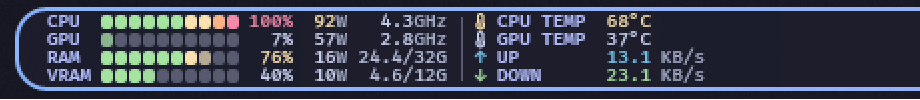
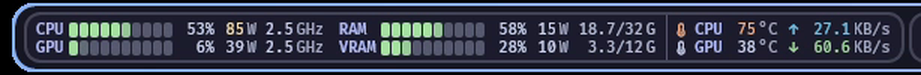
Taskbar System Info Plus 1.4.18: two readable stacked rows (#51)
The stacked layout drew four 7 px rows inside the 34 px dock, so labels,
icons and units were hard to read. It now uses two rows (CPU/GPU, RAM/VRAM,
temperatures, network) at the Stacked font size (default 10), semibold
labels with medium values, and a thin space before W, GHz and G.

diff --git a/mods/local/taskbar-system-info-weather/taskbar-system-info-weather.wh.cpp b/mods/local/taskbar-system-info-weather/taskbar-system-info-weather.wh.cpp
@@ -5,7 +5,7 @@
 // @name:uk-UA      Системний монітор панелі завдань
 // @description     CPU, GPU, RAM, VRAM, temperatures and network speed on the taskbar, with optional graphs
 // @description:uk-UA Компактний монітор CPU, GPU, RAM і VRAM із 60-секундними графіками для панелі завдань Windows 11.
-// @version         1.4.17
+// @version         1.4.18
 // @author          DavidHiFi, Yevhenii Starychenko, m417z, Salyts
 // @github          https://github.com/DavidHiFi
 // @homepage        https://github.com/DavidHiFi/davids-windhawk-mods/tree/main/mods/local/taskbar-system-info-weather
@@ -199,11 +199,11 @@ by Salyts. GPL-3.0.
 
 - stackedLayout: false
   $name: Stacked layout
-  $description: "Four compact rows: CPU, GPU, RAM and VRAM meters on the left; CPU and GPU temperature, download and upload on the right. Uses the stacked font size below."
+  $description: "Two compact rows that fit inside the dock: CPU and GPU, then RAM and VRAM, then temperatures, then upload and download. Uses the stacked font size below."
 
-- stackedFontSize: 9
+- stackedFontSize: 10
   $name: Stacked font size
-  $description: "Font size for the stacked layout, from 7 to 11 pixels."
+  $description: "Text size for the stacked layout, from 7 to 11 pixels. Suggested: 10. At 11 the rows still fit a 34-pixel dock."
 
 - meterSegments: 10
   $name: Meter segments
@@ -564,7 +564,7 @@ struct ModSettings {
     bool showNetwork = true;
     bool showMeters = true;
     bool stackedLayout = false;
-    int stackedFontSize = 9;
+    int stackedFontSize = 10;
     int meterSegments = 10;
     int colorTheme = 0;  // index into kThemes; 0 = system colors
     int leftOffset = 10;
@@ -3531,7 +3531,7 @@ std::wstring FormatTemperatureValue(const std::optional<double>& value) {
 std::wstring FormatCapacity(double usedGb, double totalGb, bool available) {
     if (!available || !std::isfinite(usedGb) || !std::isfinite(totalGb) ||
         totalGb <= 0.0) {
-        return L"--/--G";
+        return L"--/--\u2009G";
     }
     double roundedTotalGb = std::round(totalGb);
     int totalDecimals =
@@ -3540,7 +3540,7 @@ std::wstring FormatCapacity(double usedGb, double totalGb, bool available) {
             ? 1
             : 0;
     return FormatFixed(usedGb, 1) + L"/" +
-           FormatFixed(totalGb, totalDecimals) + L"G";
+           FormatFixed(totalGb, totalDecimals) + L"\u2009G";
 }
 
 enum class AlertLevel { Normal, Warning, Critical };
@@ -4113,12 +4113,12 @@ void ApplyTextStyle(TextBlock text,
         return;
     }
     text.FontFamily(Media::FontFamily(settings.fontFamily));
-    text.FontSize(g_widgetStacked ? 7.5 : settings.fontSize);
-    // Stacked text is 7.5 DIP and cannot grow inside the 34-DIP dock, so it
-    // gains weight instead (1.4.12): bold labels, semibold values.
-    text.FontWeight(label            ? (g_widgetStacked ? Text::FontWeights::Bold()
-                                                        : Text::FontWeights::SemiBold())
-                    : g_widgetStacked ? Text::FontWeights::SemiBold()
+    text.FontSize(g_widgetStacked ? settings.stackedFontSize : settings.fontSize);
+    // Two stacked rows leave room for real text size (1.4.18). Heavy weights
+    // at small sizes fill in the counters, so labels are semibold and values
+    // medium.
+    text.FontWeight(label            ? Text::FontWeights::SemiBold()
+                    : g_widgetStacked ? Text::FontWeights::Medium()
                                       : Text::FontWeights::Normal());
     if (g_widgetStacked) {
         text.LineStackingStrategy(LineStackingStrategy::BlockLineHeight);
@@ -4142,7 +4142,7 @@ void ApplyTextStyle(TextBlock text,
 constexpr wchar_t kInfoIslandName[] = L"TaskbarIsland_SystemInfo";
 constexpr wchar_t kAppsIslandName[] = L"TaskbarIsland_Apps";
 constexpr double kIslandHeight = 34.0;
-// Four native rows fit inside the island with three DIPs of inset.
+// Stacked rows fit inside the island with three DIPs of inset.
 constexpr double kIslandContentHeight = 28.0;
 
 double WidgetHeightForTaskbar(double availableHeight) {
@@ -4472,19 +4472,21 @@ double WeatherAwareLeftOffset(const ModSettings& settings) {
 }
 
 double StackedRowHeight(int fontSize) {
-    // Four 7-DIP rows leave clear space inside the 34-DIP island.
-    return 7.0;
+    // Two rows of 1.2x the font: 24 DIP at 10, 26 at 11, inside the 28-DIP
+    // content area of the 34-DIP island.
+    return std::ceil(fontSize * 1.2);
 }
 
-// Four rows: label, meter, percent, capacity | temperature and network labels,
-// values and units. Columns are measured with the stacked font.
+// Two rows. Row 0: CPU | RAM | CPU temperature | upload.
+// Row 1: GPU | VRAM | GPU temperature | download.
+// Columns are measured with the stacked font.
 void ApplyStackedGeometry(const ModSettings& settings) {
     if (!g_stackedGrid) return;
     auto measure = [&](PCWSTR value, bool label = false) {
         TextBlock probe;
         probe.FontFamily(Media::FontFamily(settings.fontFamily));
         probe.FontSize(settings.stackedFontSize);
-        probe.FontWeight(label ? Text::FontWeights::Bold() : Text::FontWeights::SemiBold());
+        probe.FontWeight(label ? Text::FontWeights::SemiBold() : Text::FontWeights::Medium());
         probe.Text(value);
         probe.Measure(Size{10000, 100});
         return std::ceil(static_cast<double>(probe.DesiredSize().Width));
@@ -4510,18 +4512,26 @@ void ApplyStackedGeometry(const ModSettings& settings) {
     double unitWidth = std::max({measure(L"MB/s"), measure(L"KB/s"), measure(L"GB/s")});
     double wattsWidth = measure(L"999W");
     double wattsGap = measure(L"9 9") - measure(L"99");
+    double meterColumn = settings.showMeters ? meterWidth + small : 0;
     const double widths[] = {
-        std::max({measure(L"CPU", true), measure(L"GPU", true), measure(L"VRAM", true)}) + small,
-        settings.showMeters ? meterWidth + small : 0,
+        std::max(measure(L"CPU", true), measure(L"GPU", true)) + small,
+        meterColumn,
+        measure(L"100%"),
+        small + wattsWidth + wattsGap + measure(L"9.9\u2009GHz"),
+        std::max(gap, 10.0),
+        std::max(measure(L"RAM", true), measure(L"VRAM", true)) + small,
+        meterColumn,
         measure(L"100%"),
         small + wattsWidth + wattsGap +
-            std::max({fullCapacityWidth(g_ramLayoutCapacityGb),
-                      fullCapacityWidth(g_vramLayoutCapacityGb), measure(L"9.9GHz")}),
+            std::max(fullCapacityWidth(g_ramLayoutCapacityGb),
+                     fullCapacityWidth(g_vramLayoutCapacityGb)),
         std::max(gap, 14.0),
-        std::max(measure((std::wstring(kTempIconPrefix) + L"CPU TEMP").c_str(), true),
-                 settings.showNetwork ? measure(L"\u2193 NET DOWN", true) : 0.0) + small,
-        std::max(measure(L"115"), settings.showNetwork ? measure(L"999.9") : 0.0),
-        small + std::max(measure(L"°C"), settings.showNetwork ? unitWidth : 0.0),
+        measure((std::wstring(kTempIconPrefix) + L"GPU").c_str(), true) + small,
+        measure(L"115"),
+        small + measure(L"\u00B0C"),
+        settings.showNetwork ? gap + measure(L"\u2193", true) + small : 0.0,
+        settings.showNetwork ? measure(L"999.9") : 0.0,
+        settings.showNetwork ? small + unitWidth : 0.0,
     };
     double width = 0;
     auto columns = g_stackedGrid.ColumnDefinitions();
@@ -4534,6 +4544,13 @@ void ApplyStackedGeometry(const ModSettings& settings) {
     }
     if (g_stackDivider) {
         if (g_meterEmptyBrush) g_stackDivider.Fill(g_meterEmptyBrush);
+    }
+    // Arrows sit at the left of their column so a three-digit speed never
+    // touches them.
+    for (TextBlock label : {g_uploadLabel, g_downloadLabel}) {
+        if (!label) continue;
+        label.TextAlignment(TextAlignment::Left);
+        label.Margin(Thickness{gap, 0, 0, 0});
     }
     for (auto [run, brush] : {std::pair{g_downloadArrowRun, g_downloadBrush},
                               std::pair{g_uploadArrowRun, g_uploadBrush}}) {
@@ -4563,7 +4580,7 @@ void ApplyStackedGeometry(const ModSettings& settings) {
                            g_uploadText, g_downloadUnit, g_uploadUnit}) {
         if (text) text.Visibility(settings.showNetwork ? Visibility::Visible : Visibility::Collapsed);
     }
-    g_widgetHeight = rowHeight * 4;
+    g_widgetHeight = rowHeight * 2;
     g_widgetWidth = std::max(static_cast<double>(settings.width), width);
     g_widget.Width(g_widgetWidth);
     g_widget.Height(g_widgetHeight);
@@ -5507,8 +5524,8 @@ bool RemoveWidget() {
 
 void BuildStackedWidget(Grid widget) {
     g_stackedGrid = widget;
-    for (int i = 0; i < 4; ++i) widget.RowDefinitions().Append(PixelRow(g_stackedRowHeight));
-    for (int i = 0; i < 8; ++i) widget.ColumnDefinitions().Append(PixelColumn(0));
+    for (int i = 0; i < 2; ++i) widget.RowDefinitions().Append(PixelRow(g_stackedRowHeight));
+    for (int i = 0; i < 16; ++i) widget.ColumnDefinitions().Append(PixelColumn(0));
     auto place = [&](FrameworkElement element, int row, int column) {
         if (!element) return;
         Grid::SetRow(element, row);
@@ -5529,15 +5546,17 @@ void BuildStackedWidget(Grid widget) {
         {L"RAM", L"Ram", &g_ramLabel, &g_ramMeter, &g_ramPercentText, &g_ramCapacityText},
         {L"VRAM", L"Vram", &g_vramLabel, &g_vramMeter, &g_vramPercentText, &g_vramCapacityText},
     };
-    for (int row = 0; row < 4; ++row) {
-        const Left& item = left[row];
+    for (int index = 0; index < 4; ++index) {
+        const Left& item = left[index];
         std::wstring prefix = item.prefix;
-        *item.labelText = text((prefix + L"Label").c_str(), item.label, TextAlignment::Left, row, 0);
+        int row = index % 2;
+        int col = index < 2 ? 0 : 5;
+        *item.labelText = text((prefix + L"Label").c_str(), item.label, TextAlignment::Left, row, col);
         *item.meter = CreateMeter((prefix + L"Meter").c_str());
-        place(*item.meter, row, 1);
-        *item.percent = text((prefix + L"Percent").c_str(), L"--%", TextAlignment::Right, row, 2);
+        place(*item.meter, row, col + 1);
+        *item.percent = text((prefix + L"Percent").c_str(), L"--%", TextAlignment::Right, row, col + 2);
         if (item.capacity) {
-            PowerCell& cell = row == 2 ? g_ramPowerCell : g_vramPowerCell;
+            PowerCell& cell = index == 2 ? g_ramPowerCell : g_vramPowerCell;
             cell.text = CreateCellText((prefix + L"Capacity").c_str(), TextAlignment::Right);
             auto run = [&](PCWSTR value) {
                 Documents::Run part;
@@ -5548,13 +5567,13 @@ void BuildStackedWidget(Grid widget) {
             cell.wattsText = CreateCellText((prefix + L"Watts").c_str(), TextAlignment::Right);
             cell.wattsText.HorizontalAlignment(HorizontalAlignment::Left);
             cell.watts = run(L"--");
-            cell.wattsUnit = run(L"W");
+            cell.wattsUnit = run(L"\u2009W");
             cell.text.Inlines().Clear();
             cell.wattsText.Inlines().Append(cell.watts);
             cell.wattsText.Inlines().Append(cell.wattsUnit);
-            place(cell.wattsText, row, 3);
-            cell.clock = run(L"--/--G");
-            place(cell.text, row, 3);
+            place(cell.wattsText, row, col + 3);
+            cell.clock = run(L"--/--\u2009G");
+            place(cell.text, row, col + 3);
             *item.capacity = cell.text;
         }
     }
@@ -5570,13 +5589,13 @@ void BuildStackedWidget(Grid widget) {
         cell.wattsText = CreateCellText((std::wstring(name) + L"Watts").c_str(), TextAlignment::Right);
         cell.wattsText.HorizontalAlignment(HorizontalAlignment::Left);
         cell.watts = run(L"--");
-        cell.wattsUnit = run(L"W");
+        cell.wattsUnit = run(L"\u2009W");
         cell.text.Inlines().Clear();
         cell.wattsText.Inlines().Append(cell.watts);
         cell.wattsText.Inlines().Append(cell.wattsUnit);
         place(cell.wattsText, row, 3);
         cell.clock = run(L"-.-");
-        cell.clockUnit = run(L"GHz");
+        cell.clockUnit = run(L"\u2009GHz");
         place(cell.text, row, 3);
         return cell;
     };
@@ -5586,8 +5605,8 @@ void BuildStackedWidget(Grid widget) {
     divider.HorizontalAlignment(HorizontalAlignment::Center);
     divider.Margin(Thickness{0, 2, 0, 2});
     divider.IsHitTestVisible(false);
-    Grid::SetRowSpan(divider, 4);
-    place(divider, 0, 4);
+    Grid::SetRowSpan(divider, 2);
+    place(divider, 0, 9);
     g_stackDivider = divider;
     // Its first real position lets the island copy take its place.
     divider.SizeChanged([](auto const&, auto const&) {
@@ -5599,19 +5618,18 @@ void BuildStackedWidget(Grid widget) {
         label.Text(L"");
         Documents::Run iconRun;
         iconRun.Text(kTempIconPrefix);
-        iconRun.FontSize(6.5);
         Documents::Run nameRun;
         nameRun.Text(name);
         label.Inlines().Append(iconRun);
         label.Inlines().Append(nameRun);
         return iconRun;
     };
-    g_cpuTempLabel = text(L"CpuTemperatureLabel", L"CPU TEMP", TextAlignment::Left, 0, 5);
-    g_cpuTempIconRun = tempLabel(g_cpuTempLabel, L"CPU TEMP");
-    g_gpuTempLabel = text(L"GpuTemperatureLabel", L"GPU TEMP", TextAlignment::Left, 1, 5);
-    g_gpuTempIconRun = tempLabel(g_gpuTempLabel, L"GPU TEMP");
-    g_uploadLabel = text(L"UploadLabel", L"UP", TextAlignment::Left, 2, 5);
-    g_downloadLabel = text(L"DownloadLabel", L"DOWN", TextAlignment::Left, 3, 5);
+    g_cpuTempLabel = text(L"CpuTemperatureLabel", L"CPU", TextAlignment::Left, 0, 10);
+    g_cpuTempIconRun = tempLabel(g_cpuTempLabel, L"CPU");
+    g_gpuTempLabel = text(L"GpuTemperatureLabel", L"GPU", TextAlignment::Left, 1, 10);
+    g_gpuTempIconRun = tempLabel(g_gpuTempLabel, L"GPU");
+    g_uploadLabel = text(L"UploadLabel", L"UP", TextAlignment::Right, 0, 13);
+    g_downloadLabel = text(L"DownloadLabel", L"DOWN", TextAlignment::Right, 1, 13);
     auto arrowLabel = [](TextBlock label, PCWSTR arrow, PCWSTR name) {
         label.Text(L"");
         Documents::Run arrowRun;
@@ -5622,16 +5640,16 @@ void BuildStackedWidget(Grid widget) {
         label.Inlines().Append(nameRun);
         return arrowRun;
     };
-    g_uploadArrowRun = arrowLabel(g_uploadLabel, L"\u2191 ", L"NET UP");
-    g_downloadArrowRun = arrowLabel(g_downloadLabel, L"\u2193 ", L"NET DOWN");
-    g_cpuTempText = text(L"CpuTemperature", L"--", TextAlignment::Right, 0, 6);
-    g_gpuTempText = text(L"GpuTemperature", L"--", TextAlignment::Right, 1, 6);
-    g_cpuTempUnit = text(L"CpuTemperatureUnit", L"°C", TextAlignment::Right, 0, 7);
-    g_gpuTempUnit = text(L"GpuTemperatureUnit", L"°C", TextAlignment::Right, 1, 7);
-    g_uploadText = text(L"UploadValue", L"--", TextAlignment::Right, 2, 6);
-    g_downloadText = text(L"DownloadValue", L"--", TextAlignment::Right, 3, 6);
-    g_uploadUnit = text(L"UploadUnit", L"B/s", TextAlignment::Right, 2, 7);
-    g_downloadUnit = text(L"DownloadUnit", L"B/s", TextAlignment::Right, 3, 7);
+    g_uploadArrowRun = arrowLabel(g_uploadLabel, L"\u2191", L"");
+    g_downloadArrowRun = arrowLabel(g_downloadLabel, L"\u2193", L"");
+    g_cpuTempText = text(L"CpuTemperature", L"--", TextAlignment::Right, 0, 11);
+    g_gpuTempText = text(L"GpuTemperature", L"--", TextAlignment::Right, 1, 11);
+    g_cpuTempUnit = text(L"CpuTemperatureUnit", L"\u00B0C", TextAlignment::Right, 0, 12);
+    g_gpuTempUnit = text(L"GpuTemperatureUnit", L"\u00B0C", TextAlignment::Right, 1, 12);
+    g_uploadText = text(L"UploadValue", L"--", TextAlignment::Right, 0, 14);
+    g_downloadText = text(L"DownloadValue", L"--", TextAlignment::Right, 1, 14);
+    g_uploadUnit = text(L"UploadUnit", L"B/s", TextAlignment::Right, 0, 15);
+    g_downloadUnit = text(L"DownloadUnit", L"B/s", TextAlignment::Right, 1, 15);
 }
 
 bool InjectWidget(FrameworkElement taskbarFrame) {

diff --git a/mods/local/taskbar-system-info-weather/README.md b/mods/local/taskbar-system-info-weather/README.md
@@ -17,13 +17,17 @@ GPU  4% 56°C ↓ 8.4 MB/s   VRAM  9%  2.1/24G
 
 - **CPU and GPU** load and temperature.
 - **RAM and VRAM** usage with used and total gigabytes, plus capacity bars.
-- **Stacked layout (new in 1.3.0).** Turn on **Stacked layout** for four
-  compact rows (CPU, GPU, RAM, VRAM), each with a segmented meter that fills
-  smoothly and steps from green to yellow, orange and red. Usage percents turn
-  yellow, orange and red as load climbs. CPU TEMP and GPU TEMP wear a
-  thermometer icon that colors with the temperature.
+- **Stacked layout.** Turn on **Stacked layout** for two compact rows that
+  fit inside a 34-pixel dock: CPU and GPU, then RAM and VRAM, then
+  temperatures, then upload and download. Each of CPU, GPU, RAM and VRAM has
+  a segmented meter that fills smoothly and steps from green to yellow,
+  orange and red. Usage percents turn yellow, orange and red as load climbs.
+  The CPU and GPU temperatures wear a thermometer icon that colors with the
+  temperature. Text size comes from **Stacked font size** (10 by default;
+  1.4.18 moved from four tiny rows to two readable ones).
 - **Watts and clocks (stacked layout, HWiNFO Shared Memory).** CPU and GPU
-  show power draw and clock speed, like `92W 4.4GHz`. RAM shows CPU SoC power
+  show power draw and clock speed, like `92 W 4.4 GHz`, with a thin space
+  before each unit. RAM shows CPU SoC power
   (the memory controller, since DDR4 sticks have no power sensor) and VRAM
   shows the GPU memory rail. Watts sit in their own aligned column and keep
   the normal text color until the load climbs.

diff --git a/mods/README.md b/mods/README.md
@@ -22,7 +22,7 @@
 | [Taskbar Weather](local/taskbar-weather) | Current weather on the taskbar with a details card on hover. | 1.4.0 | MIT |
 | [Taskbar Elastic WinUI Pill Plus](local/taskbar-elastic-pill-plus) | An animated pill that slides under the app you use, with an option to mark open apps. | 2.1.0 | MIT |
 | [Taskbar Collapse to Running Plus](local/taskbar-collapse-to-running-plus) | Hide idle pinned apps and reveal them with a smooth hover transition. | 1.1.5 | MIT |
-| [Taskbar System Info Plus](local/taskbar-system-info-weather) | CPU, GPU, RAM, VRAM, temperatures and network speed on the taskbar. | 1.4.17 | GPL-3.0 |
+| [Taskbar System Info Plus](local/taskbar-system-info-weather) | CPU, GPU, RAM, VRAM, temperatures and network speed on the taskbar. | 1.4.18 | GPL-3.0 |
 | [Taskbar AI Quota Bars Plus](local/taskbar-ai-quota-opencode) | Claude, Codex, Antigravity and OpenCode Go usage limits on the taskbar. | 1.6.5.1 | MIT |
 | [Seamless Volume Mixer](local/better-volume-mixer-plus) | Tray volume mixer with per-app volume up to 1000%, a per-app compressor, and per-app devices. | 1.3.0 | MIT |
 | [Translucent Flyouts](local/translucent-flyouts) | Acrylic, Mica and blur menus, dropdowns and tooltips in every app. | 0.6.6 | LGPL-3.0 |
